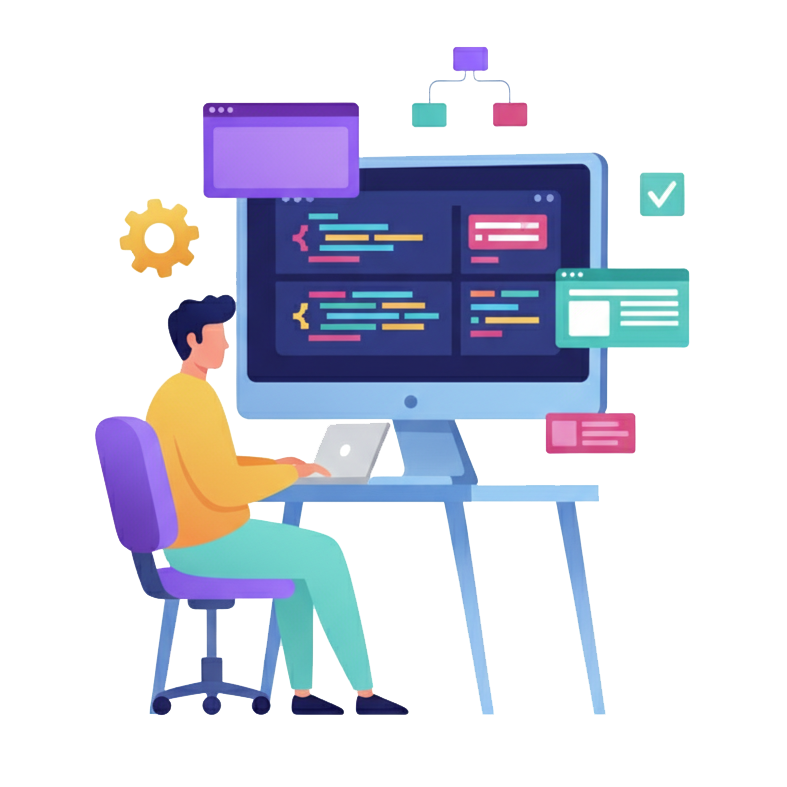
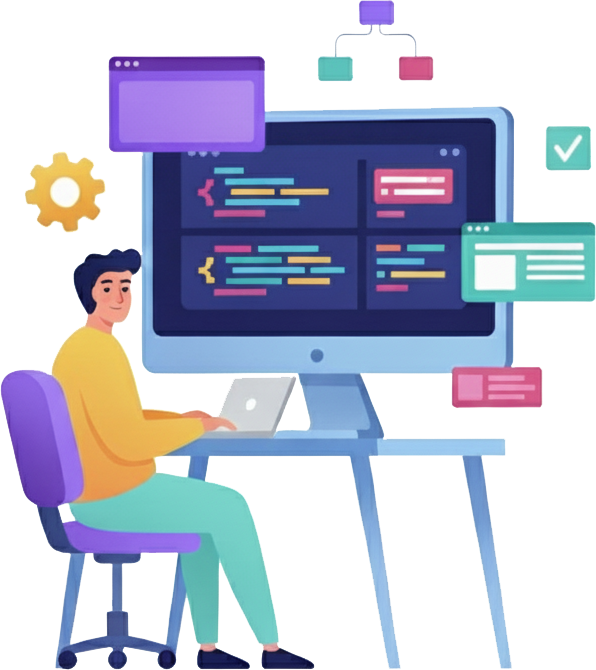
style changes

diff --git a/skillup.client/src/components/RegisterForm.tsx b/skillup.client/src/components/RegisterForm.tsx
@@ -5,6 +5,7 @@ import type { RegisterRequest } from "../services/authService";
 interface RegisterFormProps {
   onRegisterSuccess: (message: string) => void;
 }
+
 export const RegisterForm = ({ onRegisterSuccess }: RegisterFormProps) => {
   const [firstname, setFirstname] = useState("");
   const [lastname, setLastname] = useState("");
@@ -34,52 +35,67 @@ export const RegisterForm = ({ onRegisterSuccess }: RegisterFormProps) => {
   };
 
   return (
-    <form onSubmit={handleSubmit} className="max-w-md mx-auto p-4 rounded-md">
+    <form
+      onSubmit={handleSubmit}
+      className="max-w-md mx-auto bg-gray-200 p-8 rounded-xl shadow space-y-4"
+    >
       {error && <p className="text-red-500 mb-2">{error}</p>}
       {success && (
         <p className="text-green-500 mb-2">Registration successful!</p>
       )}
 
-      <input
-        type="text"
-        placeholder="First Name"
-        value={firstname}
-        onChange={(e) => setFirstname(e.target.value)}
-        required
-        className="w-full mb-2 p-2 border rounded-md"
-      />
+      <div>
+        <label className="block text-sm font-medium mb-1">First Name</label>
+        <input
+          type="text"
+          placeholder="First Name"
+          value={firstname}
+          onChange={(e) => setFirstname(e.target.value)}
+          required
+          className="w-full text-sm bg-white px-4 py-2 rounded-md"
+        />
+      </div>
 
-      <input
-        type="text"
-        placeholder="Last Name"
-        value={lastname}
-        onChange={(e) => setLastname(e.target.value)}
-        required
-        className="w-full mb-2 p-2 border rounded-md"
-      />
+      <div>
+        <label className="block text-sm font-medium mb-1">Last Name</label>
+        <input
+          type="text"
+          placeholder="Last Name"
+          value={lastname}
+          onChange={(e) => setLastname(e.target.value)}
+          required
+          className="w-full text-sm bg-white px-4 py-2 rounded-md"
+        />
+      </div>
 
-      <input
-        type="email"
-        placeholder="Email"
-        value={email}
-        onChange={(e) => setEmail(e.target.value)}
-        required
-        className="w-full mb-2 p-2 border rounded-md"
-      />
+      <div>
+        <label className="block text-sm font-medium mb-1">Email</label>
+        <input
+          type="email"
+          placeholder="Email"
+          value={email}
+          onChange={(e) => setEmail(e.target.value)}
+          required
+          className="w-full text-sm bg-white px-4 py-2 rounded-md"
+        />
+      </div>
 
-      <input
-        type="password"
-        placeholder="Password"
-        value={password}
-        onChange={(e) => setPassword(e.target.value)}
-        required
-        autoComplete="current-password"
-        className="w-full mb-4 p-2 border rounded-md"
-      />
+      <div>
+        <label className="block text-sm font-medium mb-1">Password</label>
+        <input
+          type="password"
+          placeholder="Password"
+          value={password}
+          onChange={(e) => setPassword(e.target.value)}
+          required
+          autoComplete="current-password"
+          className="w-full text-sm bg-white px-4 py-2 rounded-md"
+        />
+      </div>
 
       <button
         type="submit"
-        className="w-full bg-cyan-700 hover:bg-teal-700 text-white p-2 rounded-md"
+        className="w-full bg-cyan-700 hover:bg-cyan-800 text-white p-2 mt-4 rounded-md"
       >
         Register
       </button>

diff --git a/skillup.client/src/pages/Contact.tsx b/skillup.client/src/pages/Contact.tsx
@@ -17,13 +17,13 @@ const Contact = () => {
             </div>
 
             <div className="grid md:grid-cols-2 gap-12 md:gap-24 max-w-4xl mx-auto">
-                <form className="bg-gray-100 p-8 rounded-xl shadow space-y-4  ">
+                <form className="bg-gray-200 p-8 rounded-xl shadow space-y-4">
                     <div>
                         <label className="block text-sm font-medium mb-1">Name</label>
                         <input
                             type="text"
                             placeholder="Your Name"
-                            className="w-full text-sm bg-white   rounded-md px-4 py-2 focus:outline-none focus:ring-2 focus:ring-teal-500"
+                            className="w-full text-sm bg-white rounded-md px-4 py-2 focus:outline-none focus:ring-1 focus:ring-cyan-700"
                         />
                     </div>
                     <div>
@@ -31,7 +31,7 @@ const Contact = () => {
                         <input
                             type="email"
                             placeholder="Your Email"
-                            className="w-full text-sm bg-white  rounded-lg px-4 py-2 focus:outline-none focus:ring-2 focus:ring-teal-500"
+                            className="w-full text-sm bg-white rounded-lg px-4 py-2 focus:outline-none focus:ring-1 focus:ring-cyan-700"
                         />
                     </div>
                     <div>
@@ -39,18 +39,18 @@ const Contact = () => {
                         <textarea
                             rows={4}
                             placeholder="Your Message"
-                            className="w-full text-sm bg-white  rounded-lg px-4 py-2 focus:outline-none focus:ring-2 focus:ring-teal-500"
+                            className="w-full text-sm bg-white rounded-lg px-4 py-2 focus:outline-none focus:ring-1 focus:ring-cyan-700"
                         ></textarea>
                     </div>
                     <button
                         type="submit"
-                        className="w-full  bg-cyan-700 text-white py-2 rounded-md hover:bg-cyan-800 transition"
+                        className="w-full bg-cyan-700 text-white py-2 mt-4 rounded-md hover:bg-cyan-800 transition"
                     >
                         Send Message
                     </button>
                 </form>
 
-                <div className="flex flex-col items-center  space-y-6">
+                <div className="flex flex-col items-center space-y-6">
                     <div className="flex items-center space-x-3">
                         <FaEnvelope className="text-cyan-700 text-xl" />
                         <span className="text-gray-700">support@skillup.com</span>
@@ -75,7 +75,7 @@ const Contact = () => {
                         <img
                             src="/contact.png"
                             alt="Contact illustration"
-                            className="max-w-md w-full"
+                            className="max-w-md w-full h-50"
                         />
                     </div>
                 </div>

diff --git a/skillup.client/src/pages/About.tsx b/skillup.client/src/pages/About.tsx
@@ -3,30 +3,32 @@ import { motion } from "framer-motion";
 const About = () => {
     return (
         <motion.section
-            className="container mx-auto px-6 py-12"
+            className="container mx-auto px-6 py-12 max-w-6xl grid md:grid-cols-2 md:gap-12 items-center"
             initial={{ opacity: 0 }}
             animate={{ opacity: 1 }}
             transition={{ duration: 0.4, ease: "easeInOut" }}
         >
-            <div className="text-center max-w-4xl mx-auto mb-12">
-                <h1 className="text-3xl md:text-4xl font-bold mb-6">About SKILLUP</h1>
-                <p className="text-lg leading-relaxed">
-                    SKILLUP isn’t just any learning platform – it’s your brain’s personal training arena.
-                    Here, you learn programming step by step with theory, exercises, and levels that feel more like a game than a lesson.
-                </p>
-                <p className="text-lg leading-relaxed mt-4">
-                    Every level you complete unlocks certificates (just like achievements in a game – but with a bit more LinkedIn credibility than Xbox points).
-                </p>
-                <p className="text-lg leading-relaxed mt-4">
-                    In short: you’ll get smarter, have fun, and maybe even get a little hooked – but in the best way possible. 🚀
-                </p>
+            <div className="mx-automd:col-span-1 flex flex-col justify-around h-full mb-12 md:mb-0 text-center md:text-left">
+                <h1 className="text-3xl md:text-4xl mb-6 md:mb-0 font-bold">About SKILLUP</h1>
+                <div>
+                    <p className="text-lg leading-relaxed">
+                        SKILLUP isn’t just any learning platform – it’s your brain’s personal training arena.
+                        Here, you learn programming step by step with theory, exercises, and levels that feel more like a game than a lesson.
+                    </p>
+                    <p className="text-lg leading-relaxed mt-4">
+                        Every level you complete unlocks certificates (just like achievements in a game – but with a bit more LinkedIn credibility than Xbox points).
+                    </p>
+                    <p className="text-lg leading-relaxed mt-4">
+                        In short: you’ll get smarter, have fun, and maybe even get a little hooked – but in the best way possible. 🚀
+                    </p>
+                </div>
             </div>
 
-            <div className="flex justify-center">
+            <div className="flex justify-center md:col-span-1">
                 <img
                     src="/about-skillup.png"
                     alt="SKILLUP Illustration"
-                    className="max-w-full h-150"
+                    className="max-w-full"
                 />
             </div>
         </motion.section>

diff --git a/skillup.client/src/components/LoginForm.tsx b/skillup.client/src/components/LoginForm.tsx
@@ -29,35 +29,44 @@ export const LoginForm = ({ successMessage }: { successMessage?: string; }) => {
   };
 
   return (
-    <form onSubmit={handleSubmit} className="max-w-md mx-auto p-4 rounded-md">
+    <form
+      onSubmit={handleSubmit}
+      className="max-w-md mx-auto bg-gray-200 p-8 rounded-xl shadow space-y-4"
+    >
       {successMessage && (
         <p className="text-green-500 mb-2">{successMessage}</p>
       )}
       {error && <p className="text-red-500 mb-2">{error}</p>}
       {success && <p className="text-green-500 mb-2">Login successful!</p>}
 
-      <input
-        type="email"
-        placeholder="Email"
-        value={email}
-        onChange={(e) => setEmail(e.target.value)}
-        required
-        className="w-full mb-2 p-2 border rounded-md"
-      />
+      <div>
+        <label className="block text-sm font-medium mb-1">Email</label>
+        <input
+          type="email"
+          placeholder="Email"
+          value={email}
+          onChange={(e) => setEmail(e.target.value)}
+          required
+          className="w-full text-sm bg-white px-4 py-2 rounded-md"
+        />
+      </div>
 
-      <input
-        type="password"
-        placeholder="Password"
-        value={password}
-        onChange={(e) => setPassword(e.target.value)}
-        required
-        autoComplete="current-password"
-        className="w-full mb-4 p-2 border rounded-md"
-      />
+      <div>
+        <label className="block text-sm font-medium mb-1">Password</label>
+        <input
+          type="password"
+          placeholder="Password"
+          value={password}
+          onChange={(e) => setPassword(e.target.value)}
+          required
+          autoComplete="current-password"
+          className="w-full text-sm bg-white px-4 py-2 rounded-md"
+        />
+      </div>
 
       <button
         type="submit"
-        className="w-full bg-cyan-700 hover:bg-teal-700 text-white p-2 rounded-md"
+        className="w-full bg-cyan-700 hover:bg-cyan-800 text-white p-2 mt-4 rounded-md"
       >
         Login
       </button>

diff --git a/skillup.client/src/pages/Account.tsx b/skillup.client/src/pages/Account.tsx
@@ -23,8 +23,8 @@ export default function AccountPage() {
   };
 
   return (
-    <div className="max-w-md mx-auto mt-10 p-6 md:border rounded-md md:shadow">
-      <h2 className="text-2xl font-bold mb-4 font-family-Roboto text-slate-700 text-center">
+    <div className="max-w-md mx-auto mt-10 p-6">
+      <h2 className="text-4xl font-bold mb-6 font-family-Roboto text-slate-700 text-center">
         {isLogin ? "Login" : "Register"}
       </h2>
 
@@ -38,13 +38,13 @@ export default function AccountPage() {
           }}
         />
       )}
-      <div className="text-sm mt-4 px-4">
+      <div className="text-sm mt-4 ">
         {isLogin
           ? "Don't have an account?"
           : "Already have an account?"}
         <button
           onClick={toggleForm}
-          className="ms-1 hover:text-teal-700 transition font-semibold"
+          className="ms-1 hover:text-cyan-800 transition font-semibold"
         >
           {isLogin
             ? "Register"

diff --git a/skillup.client/src/components/BenefitsSection.tsx b/skillup.client/src/components/BenefitsSection.tsx
@@ -21,7 +21,7 @@ const cards = [
 
 const BenefitsSection: React.FC = () => {
     return (
-        <section className="w-full bg-gray-100 py-16">
+        <section className="w-full bg-gray-200 py-16">
             <div className="container mx-auto max-w-6xl px-4">
                 <h2 className="text-3xl md:text-4xl font-semibold text-center mb-10">
                     Why choose <span className="inline-block align-baseline font-bold">SKILLUP</span>

diff --git a/skillup.client/src/components/AboutSection.tsx b/skillup.client/src/components/AboutSection.tsx
@@ -2,7 +2,7 @@ import { Link } from "react-router-dom";
 
 const AboutSection: React.FC = () => {
     return (
-        <section className="w-full bg-gray-100 py-8">
+        <section className="w-full bg-gray-200 py-8">
             <div className="container mx-auto max-w-6xl px-6 grid md:grid-cols-3 md:gap-12 items-center">
 
                 <div className="md:col-span-2">

diff --git a/skillup.client/src/components/Navbar.tsx b/skillup.client/src/components/Navbar.tsx
@@ -25,7 +25,7 @@ export function Navbar() {
         }`;
 
     return (
-        <nav className="bg-gray-200 p-4 md:p-6 mb-6">
+        <nav className="bg-gray-200 p-4 md:p-6">
             <div className="container mx-auto flex justify-between items-center">
                 <Link to="/" onClick={() => setMenuOpen(false)}>
                     <img

diff --git a/skillup.client/src/components/HeroSection.tsx b/skillup.client/src/components/HeroSection.tsx
@@ -28,7 +28,7 @@ const HeroSection: React.FC = () => {
                     <img
                         src="/hero-image.png"
                         alt="Learning illustration"
-                        className="w-full"
+                        className="w-150 p-16"
                     />
                 </div>
             </div>
